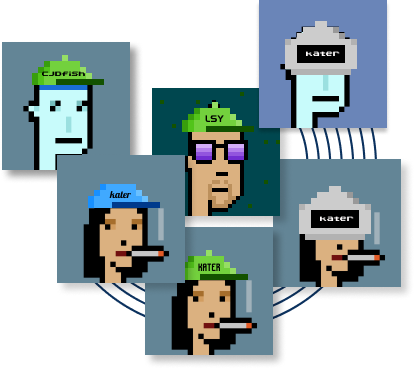
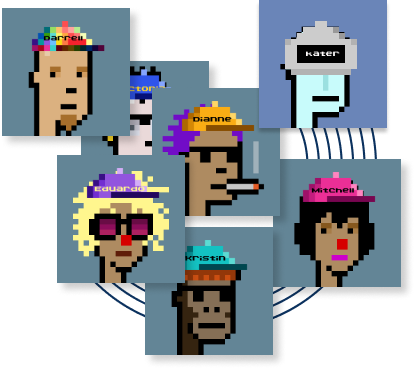
111

diff --git a/src/App.js b/src/App.js
@@ -64,7 +64,7 @@ function App() {
     let arr = [];
     let total = await contract.callStatic.totalSupply();
     for (let i = 1; i <= total; i++) {
-      let punkSign = await contract.callStatic.getpunksInfo(total);
+      let punkSign = await contract.callStatic.getpunksInfo(i);
 
       let signImg = await axios.get(punkSign.meta);
 
@@ -76,7 +76,7 @@ function App() {
       }
       arr.push(obj);
     }
-
+console.log(5555, arr)
     setSignList(arr);
   }
 
@@ -119,6 +119,8 @@ function App() {
   }, [account]);
 
   useEffect(() => {
+    setSignList([]);
+    setFreeTime(0);
     if (!account) return;
     if (chainId != 4) return;
     const contract = getConstract(SIGN_CONTRACT, SIGN_ABI, window.ethereum, account);
@@ -451,7 +453,7 @@ function App() {
           <div className={sty.title}>Update Signature</div>
           <div className={sty.desc}>Signature update: The signature can be updated through smart contract to generate a new signature without changing other information. Changing the signature requires a rename fee, and other information updates do not require additional fees</div>
           <div className={sty.desc}>Twitter update: The Twitter handle can be updated through a smart contract to generate a new Twitter handle without changing other information</div>
-          <div className={sty.desc}>Update Note: You can do any graffiti on your CryptoPunks-Sign, and you can also update it through a smart contract to generate new information without changing other information. You can declare your love, express your attitude, or just say something irrelevant. Nonsense, whatever, as long as you like it!</div>
+          <div className={sty.desc}>Update Note: You can do any graffiti on your CryptoPunks-Sign, and you can also update it through a smart contract to generate new information without changing other information</div>
         </div>
         <div className={sty.side}>
           <div className={cn(sty.tabs, 'flex-m')}>
@@ -497,20 +499,18 @@ function App() {
       <div className={sty.signed}>
         <div className={sty.title}>Encrypted punk signature that has been turned on</div>
         <div className={cn(sty.box, 'flex')}>
-          <div className={sty.outer}>
-            {
-              signList.map(e => (
+          {
+            signList.map(e => (
+              <div key={e.name} className={sty.outer}>
                 <div className={sty.item}>
                   <img className={sty.image} src={e.image} alt="" />
                   <div className={sty.name}>{e.name}</div>
                   <div className={sty.twitter}>twitter:{e.twitter}</div>
                   <div className={sty.notes}>notes:{e.notes}</div>
                 </div>
-              ))
-            }
-
-          </div>
-
+              </div>
+            ))
+          }
         </div>
       </div>
 

diff --git a/src/App.module.scss b/src/App.module.scss
@@ -191,7 +191,7 @@
     }
     .update {
         @include wrap;
-        background-color: #ffd500;
+        background-color: #7f8c8d;
         border-radius: 10px;
         margin-top: 50px;
         min-height: 320px;
@@ -201,13 +201,13 @@
             padding: 0 50px;
             .title {
                 font-size: 36px;
-                color: #333;
+                color: #fff;
                 font-weight: bold;
                 margin-bottom: 30px;
             }
             .desc {
                 font-size: 16px;
-                color: #333;
+                color: #fff;
                 margin-bottom: 15px;
                 line-height: 1.6;
             }
@@ -218,7 +218,7 @@
             .tabs {
                 border: 1px solid #fff;
                 border-radius: 6px;
-                padding: 2px;
+                padding: 2px 3px;
                 margin-bottom: 30px;
                 .tab {
                     color: #fff;
@@ -231,12 +231,12 @@
                     transition: all 0.2s linear;
                     &:hover {
                         background-color: #fff;
-                        color: #ffd500;
+                        color: #333;
                     }
                 }
                 .active {
                     background-color: #fff;
-                    color: #ffd500;
+                    color: #333;
                 }
             }
         }
@@ -294,12 +294,13 @@
     }
     .signed {
         @include wrap;
+        margin-top: 30px;
         .title {
             font-size: 24px;
             font-weight: 600;
             color: #363636;
             text-align: center;
-            margin-bottom: 30px;
+            margin-bottom: 50px;
         }
         .box {
             margin-left: -15px;
